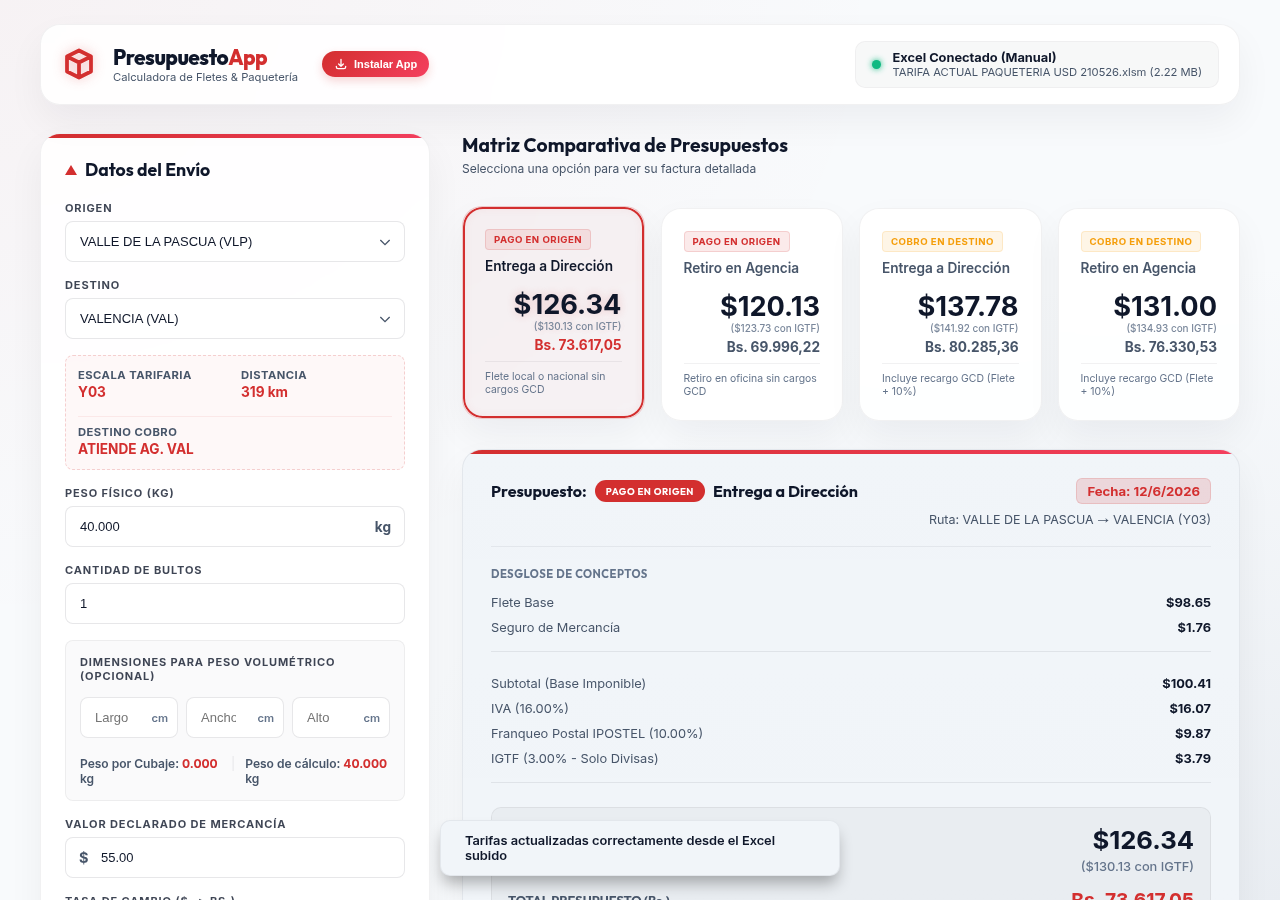
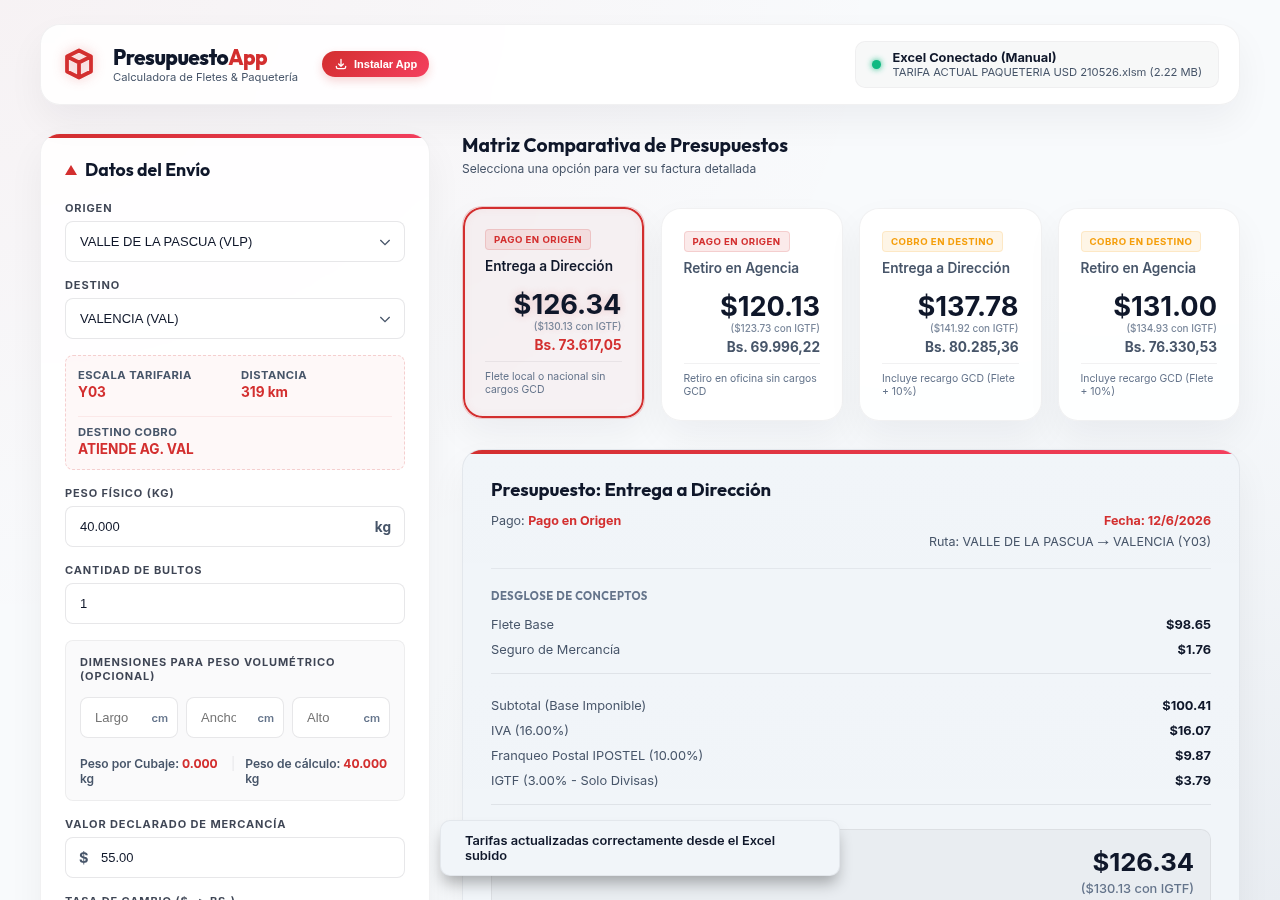
Implementar Opción A: título limpio, metadatos estructurados en dos columnas debajo con fecha a la derecha y ruta alineada a la derecha en la segunda fila

diff --git a/style.css b/style.css
@@ -1211,68 +1211,45 @@ input:disabled {
 .receipt-header {
     display: flex;
     flex-direction: column;
-    gap: 8px;
+    gap: 12px;
     border-bottom: 1px solid var(--border-color);
     padding-bottom: 18px;
 }
 
-.receipt-title-row {
-    display: flex;
-    justify-content: space-between;
-    align-items: center;
-    gap: 16px;
-}
-
-.receipt-title-area {
-    display: flex;
-    align-items: center;
-    gap: 12px;
-}
-
-.receipt-badge {
-    padding: 4px 10px;
-    font-size: 0.6rem;
-    font-weight: 700;
-    background: var(--primary);
-    color: white;
-    border-radius: 20px;
-    text-transform: uppercase;
-    letter-spacing: 0.5px;
-    display: inline-block;
-}
-
 .receipt-header h3 {
-    font-size: 1rem;
+    font-size: 1.15rem;
     font-weight: 700;
     color: var(--receipt-text);
-    display: inline-flex;
-    align-items: center;
-    gap: 8px;
-    flex-wrap: wrap;
 }
 
 .receipt-meta {
     display: flex;
-    justify-content: flex-end;
+    flex-direction: column;
+    gap: 6px;
     font-size: 0.78rem;
     color: var(--text-secondary);
 }
 
-.receipt-date-container {
+.meta-row {
     display: flex;
-    justify-content: flex-start;
+    justify-content: space-between;
+    align-items: center;
+    width: 100%;
+}
+
+.text-origen {
+    color: var(--primary);
+    font-weight: 700;
+}
+
+.text-destino {
+    color: var(--warning);
+    font-weight: 700;
 }
 
 #receiptDate {
     font-weight: 700;
-    font-size: 0.82rem;
     color: var(--primary);
-    background: var(--primary-glow);
-    padding: 4px 10px;
-    border-radius: var(--radius-sm);
-    border: 1px solid rgba(211, 47, 47, 0.15);
-    display: inline-flex;
-    align-items: center;
 }
 
 .receipt-section {
@@ -1530,16 +1507,8 @@ input:disabled {
         color: black !important;
     }
     
-    .receipt-meta, .receipt-item, .receipt-section h4, .receipt-print-note {
+    .receipt-meta, .receipt-item, .receipt-section h4, .receipt-print-note, .text-origen, .text-destino, #receiptDate {
         color: #334155 !important;
-    }
-    
-    #receiptDate {
-        background: transparent !important;
-        border: none !important;
-        padding: 0 !important;
-        color: black !important;
-        font-size: 0.82rem !important;
     }
     
     .receipt-line, .receipt-item.flete-neto-row, .bs-row {

diff --git a/index.html b/index.html
@@ -298,16 +298,16 @@
                 <!-- Selected Scenario Invoice Breakdown (Receipt View) -->
                 <div class="receipt-card" id="receipt">
                     <div class="receipt-header">
-                        <div class="receipt-title-row">
-                            <div class="receipt-title-area">
-                                <h3>Presupuesto: <span id="receiptBadge" class="receipt-badge">Pago en Origen</span> <span id="receiptTitle">Entrega a Dirección</span></h3>
-                            </div>
-                            <div class="receipt-date-container">
+                        <h3 id="receiptTitle">Presupuesto: Entrega a Dirección</h3>
+                        <div class="receipt-meta">
+                            <div class="meta-row">
+                                <span id="receiptBadge">Pago: Pago en Origen</span>
                                 <span id="receiptDate">Fecha: 12/06/2026</span>
                             </div>
-                        </div>
-                        <div class="receipt-meta">
-                            <span id="receiptRoute">Ruta: -</span>
+                            <div class="meta-row">
+                                <span></span>
+                                <span id="receiptRoute">Ruta: -</span>
+                            </div>
                         </div>
                     </div>
                     

diff --git a/main.js b/main.js
@@ -943,17 +943,15 @@ function renderDetailedReceipt() {
     route.textContent = `Ruta: ${originName} → ${destName} (${res.escala})`;
     
     if (opt.startsWith('orig')) {
-        badge.textContent = 'Pago en Origen';
-        badge.className = 'receipt-badge tag-origen';
+        badge.innerHTML = 'Pago: <strong class="text-origen">Pago en Origen</strong>';
     } else {
-        badge.textContent = 'Cobro en Destino';
-        badge.className = 'receipt-badge tag-destino';
+        badge.innerHTML = 'Pago: <strong class="text-destino">Cobro en Destino</strong>';
     }
     
     if (opt.endsWith('Dir')) {
-        title.textContent = 'Entrega a Dirección';
+        title.textContent = 'Presupuesto: Entrega a Dirección';
     } else {
-        title.textContent = 'Retiro en Agencia';
+        title.textContent = 'Presupuesto: Retiro en Agencia';
     }
     
     // 2. Line Items
